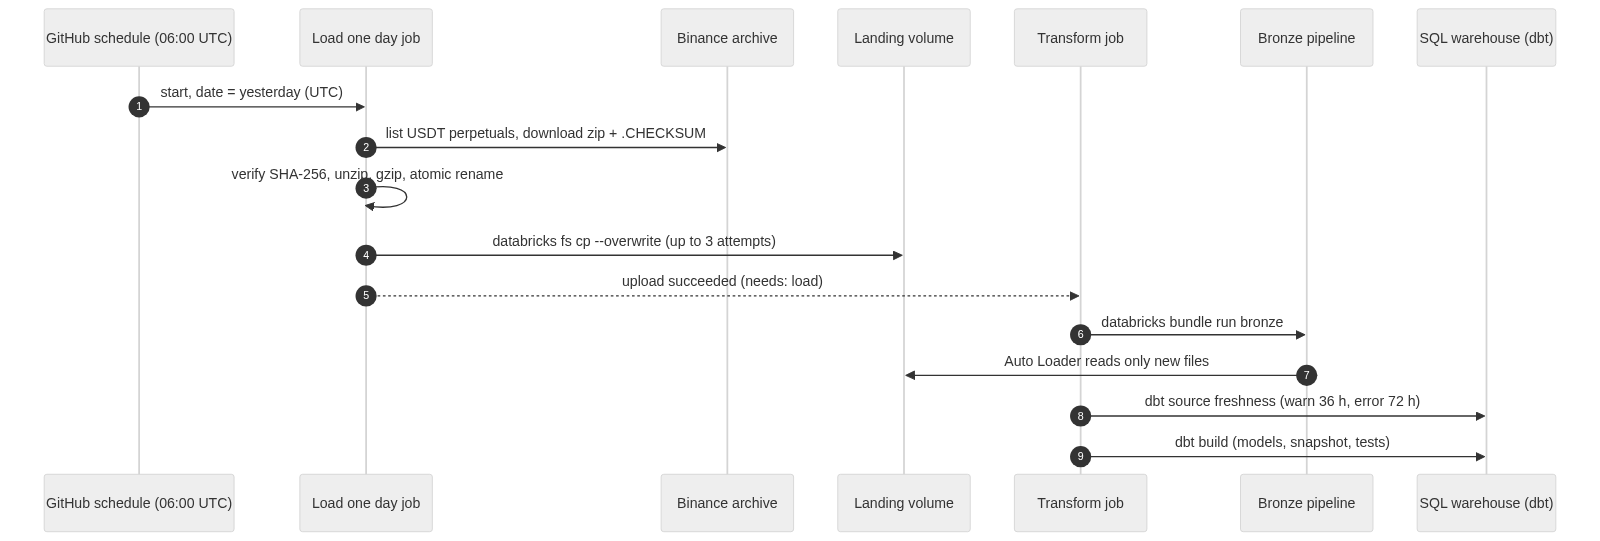
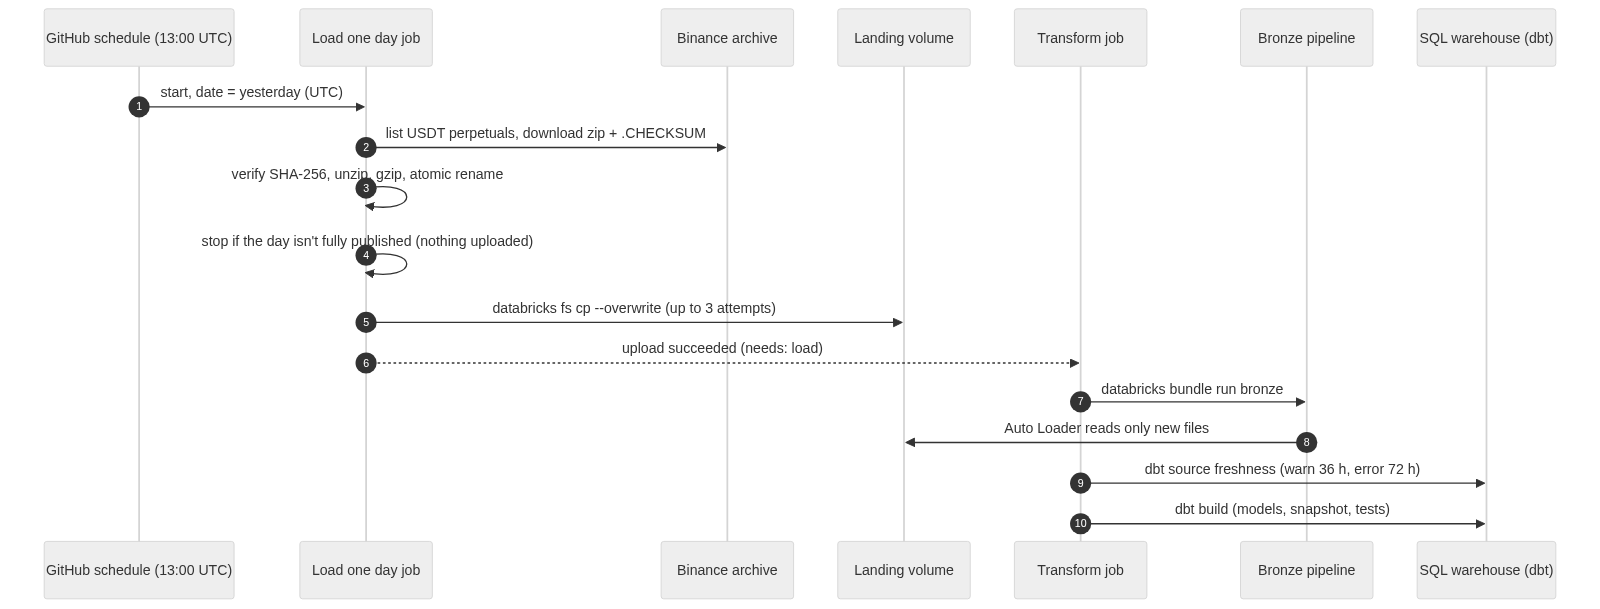
Lakehouse: daily load at 13:00 UTC; retry dropped downloads; refuse a half-published day (ADR-021)

diff --git a/lakehouse/ingest/download_binance.py b/lakehouse/ingest/download_binance.py
@@ -15,6 +15,8 @@ A file that is already saved is skipped, so running it twice is safe.
 A day or month Binance hasn't published, or a coin that wasn't trading then, is reported as missing.
 With --symbols ALL, the list of coins comes from Binance's archive itself: every USDT
 perpetual it has ever published (coins delisted long ago simply come back as missing).
+A daily run over every coin also checks that Binance has finished publishing the day, and fails
+if it hasn't, so a half-published day is never loaded.
 
 Standard library only: nothing to install.
 
@@ -27,6 +29,7 @@ import concurrent.futures
 import datetime as dt
 import gzip
 import hashlib
+import http.client
 import io
 import pathlib
 import re
@@ -61,8 +64,8 @@ LANDING = pathlib.Path(__file__).resolve().parent.parent / "data" / "landing"
 
 def fetch(url):
     """Return the file at `url` as bytes, or None if it doesn't exist (HTTP 404).
-    Network hiccups are retried twice before giving up."""
-    for attempt in range(1, 4):
+    Network hiccups are retried three times (after 5, 10 and 15 seconds) before giving up."""
+    for attempt in range(1, 5):
         try:
             request = urllib.request.Request(url, headers={"User-Agent": "medusa-lakehouse"})
             with urllib.request.urlopen(request, timeout=60) as response:
@@ -70,12 +73,16 @@ def fetch(url):
         except urllib.error.HTTPError as e:
             if e.code == 404:
                 return None
-            if attempt == 3:
+            if attempt == 4:
                 raise
-        except urllib.error.URLError:
-            if attempt == 3:
+        except (OSError, http.client.HTTPException):
+            # Covers failing to connect (URLError) and also the connection dropping in the
+            # middle of a download: "Connection reset by peer", a timeout, a cut-off file.
+            # Those happen inside response.read(), so they aren't URLErrors. Downloading the
+            # file again from the start is safe.
+            if attempt == 4:
                 raise
-        time.sleep(2 * attempt)
+        time.sleep(5 * attempt)
 
 
 def all_perpetuals(kind):
@@ -145,6 +152,27 @@ def download_one(dataset, symbol, period):
     return "saved"
 
 
+def not_published_yet(found, datasets, symbols, period):
+    """Signs that Binance is still publishing a day, for a daily run over every coin.
+
+    Binance publishes a day's metrics files first and its 1-minute candle files one to five
+    hours later, and not all at once. Loading in between would leave some coins out of that
+    day for good, because the next run only fetches its own day. Two signs:
+      - a dataset with no files at all for the day,
+      - a coin with a metrics file but no candle file. On complete days this never happens
+        (checked on 2026-10-14 to 2026-10-20), while the reverse is normal: about 120 coins
+        have candles but no metrics.
+    `found` holds (dataset, symbol, period) for every file Binance has published."""
+    have = {d: {s for s in symbols if (d, s, period) in found} for d in datasets}
+    problems = [f"{d} {period}: no files yet" for d in datasets if not have[d]]
+    if have.get("klines_1m") and have.get("metrics"):
+        waiting = sorted(have["metrics"] - have["klines_1m"])
+        if waiting:
+            problems.append(f"klines_1m {period}: {len(waiting)} coins have metrics but no candles yet "
+                            f"({', '.join(waiting[:5])}{', ...' if len(waiting) > 5 else ''})")
+    return problems
+
+
 def main():
     parser = argparse.ArgumentParser(description="Download Binance USD-M futures files.")
     parser.add_argument("--symbols", required=True, help="ALL, or comma-separated, e.g. BTCUSDT,ETHUSDT")
@@ -153,6 +181,8 @@ def main():
     parser.add_argument("--datasets", help="default: the daily datasets, or the monthly ones with --months")
     parser.add_argument("--workers", type=int, default=16, help="downloads at the same time (default: 16)")
     args = parser.parse_args()
+    # Print each line as it happens, so the log keeps messages and errors in order.
+    sys.stdout.reconfigure(line_buffering=True)
 
     if args.months and args.date:
         parser.error("use --date or --months, not both")
@@ -181,6 +211,7 @@ def main():
     # Downloads wait on the network, not the CPU, so running several at once is much faster.
     jobs = [(dataset, symbol, period) for dataset in datasets for symbol in symbols for period in periods]
     counts = {"saved": 0, "skipped": 0, "missing": 0, "failed": 0}
+    found = set()  # (dataset, symbol, period) of every file Binance has published
     with concurrent.futures.ThreadPoolExecutor(max_workers=args.workers) as pool:
         futures = {pool.submit(download_one, d, s, p): (d, s, p) for d, s, p in jobs}
         for future in concurrent.futures.as_completed(futures):
@@ -191,12 +222,24 @@ def main():
                 result = "failed"
                 print(f"FAILED   {dataset:<10} {symbol} {period}: {e}", file=sys.stderr)
             counts[result] += 1
+            if result in ("saved", "skipped"):
+                found.add((dataset, symbol, period))
             if result != "failed" and len(jobs) <= 40:  # a full run would print thousands of lines
                 print(f"{result:<8} {dataset:<10} {symbol} {period}")
 
     span = periods[0] if len(periods) == 1 else f"{periods[0]} to {periods[-1]}"
     print(f"\n{span}: " + ", ".join(f"{n} {name}" for name, n in counts.items()))
-    return 1 if counts["failed"] else 0
+
+    problems = []
+    if kind == "daily" and args.symbols.strip().upper() == "ALL":
+        for period in periods:
+            problems += not_published_yet(found, datasets, symbols, period)
+    for problem in problems:
+        print(f"NOT READY {problem}", file=sys.stderr)
+    if problems:
+        print("Binance hasn't finished publishing this day, so nothing is uploaded. "
+              "Run the load again later.", file=sys.stderr)
+    return 1 if counts["failed"] or problems else 0
 
 
 if __name__ == "__main__":

diff --git a/lakehouse/docs/operations.md b/lakehouse/docs/operations.md
@@ -8,7 +8,7 @@ How the platform runs day to day, and what to do when something goes wrong.
 
 | What | When | Where to look |
 |---|---|---|
-| Download + upload (`Lakehouse daily load`, job `load`) | 06:00 UTC (11:30 India time). GitHub may start it a few minutes late. | GitHub → **Actions** → Lakehouse daily load |
+| Download + upload (`Lakehouse daily load`, job `load`) | 13:00 UTC (18:30 India time), after Binance has published the previous day ([ADR-021](decisions.md#adr-021-load-a-day-only-after-binance-has-finished-publishing-it)). GitHub can start scheduled runs late, by minutes or even hours. | GitHub → **Actions** → Lakehouse daily load |
 | Bronze, freshness check, `dbt build` (job `transform`) | Right after a successful upload, in the same run | The same run's `transform` job; Databricks → **Jobs & Pipelines** → lakehouse-bronze for the pipeline |
 | Check the result | After the run | The last line of `dbt build` in the log; `market.gold.data_health` for the new day |
 
@@ -52,10 +52,17 @@ A complete day has about 872 coins × 1,440 rows. A data-health table will autom
 |---|---|---|
 | `default auth: cannot configure default credentials`, and the `env:` section shows `DATABRICKS_HOST:` with nothing after it | The secrets are missing or saved in the wrong place | Settings → Secrets and variables → **Actions** → **Secrets** tab → *Repository secrets* must list `DATABRICKS_HOST` and `DATABRICKS_TOKEN` |
 | `403` / invalid access token on upload | The GitHub token expired or was revoked | Create a new token, update the `DATABRICKS_TOKEN` secret (see below), re-run |
-| Download step: every file `missing` | Binance hasn't published the day yet | Re-run later with **Run workflow** |
+| Download step: `NOT READY ... no files yet` or `NOT READY ... coins have metrics but no candles yet` | Binance hasn't finished publishing the day. Nothing was uploaded. | Later the same day: open the run → **Re-run failed jobs**. The whole load runs again from the start. |
+| Download step: `FAILED ... Connection reset by peer` or a timeout | The network dropped 4 times in a row for one file (each file is tried 4 times) | **Re-run failed jobs** |
 | Download step: `FAILED ... checksum mismatch` | A file was damaged in transfer | Re-run; if it repeats, the file on Binance's side is broken: report and skip the day |
 | The workflow doesn't appear under Actions | The workflow file isn't in `.github/workflows/` at the repository root | Move it there (`git mv`) |
 | Scheduled runs stopped | GitHub pauses schedules in public repositories after 60 days without commits | Actions → the workflow → **Enable workflow** |
+
+## Incidents
+
+| Date | What happened | Cause | Fix |
+|---|---|---|---|
+| 2026-10-21 | The first scheduled daily load (for 2026-10-20) failed in the download step: `FAILED metrics ATHUSDT 2026-10-20: [Errno 104] Connection reset by peer` (1,527 saved, 280 missing, 1 failed). Re-run at 21:51 UTC: all 872 coins loaded and every test passed; no data was lost. | 1. The downloader retried a connection that failed to open, but not one that dropped mid-download. 2. GitHub started the 06:00 schedule at 11:19, before Binance had finished publishing: 88 coins' candle files appeared only at 11:55. Without the network error, the day would have loaded without those coins. | Mid-download errors are retried; the schedule moved to 13:00 UTC; the download step refuses a day that isn't fully published ([ADR-021](decisions.md#adr-021-load-a-day-only-after-binance-has-finished-publishing-it)). |
 
 ## Secrets and renewals
 

diff --git a/lakehouse/docs/decisions.md b/lakehouse/docs/decisions.md
@@ -28,6 +28,7 @@ entry replaces it and the old one is marked *Superseded*.
 | 018 | [A coin trades only if it has trades](#adr-018-a-coin-trades-only-if-it-has-trades) | Accepted |
 | 019 | [Hourly candles follow the exchange's definition](#adr-019-hourly-candles-follow-the-exchanges-definition) | Accepted |
 | 020 | [Long history from Binance's monthly hourly files](#adr-020-long-history-from-binances-monthly-hourly-files) | Accepted |
+| 021 | [Load a day only after Binance has finished publishing it](#adr-021-load-a-day-only-after-binance-has-finished-publishing-it) | Accepted; replaces the 06:00 UTC time in ADR-003 |
 
 ---
 
@@ -341,4 +342,31 @@ Long-horizon analysis reads hours; minute detail stays limited to the recent per
 before 2022 have no header row, so bronze reads every file without a header and silver drops the
 header lines. The archive stops at the last published month; the daily 1-minute load extends the
 series from there, so the history workflow doesn't need to run again.
+
+## ADR-021: Load a day only after Binance has finished publishing it
+
+**Status:** Accepted, 2026-10-22. Replaces the 06:00 UTC run time of ADR-003.
+
+**Context:** The first scheduled daily load (2026-10-21, for 2026-10-20) failed when one download
+lost its connection ("Connection reset by peer"). Looking into it showed a bigger problem. Binance
+publishes a day's metrics files around 06:40–07:40 UTC the next day and its 1-minute candles
+around 08:00–12:00 UTC (measured 14–20 October), all after the 06:00 schedule. GitHub had started
+that run late, at 11:19, when 88 coins' candle files were still missing; they appeared at 11:55.
+The downloader counts an unpublished file as *missing*, which is normal for delisted coins, so
+without the network error the run would have loaded the day without those 88 coins. The next
+run only fetches its own day, so they would never have been loaded.
+
+**Decision:**
+- The daily load runs at 13:00 UTC.
+- A daily run over every coin refuses a day that isn't fully published, and nothing is uploaded.
+  It counts as unpublished when a dataset has no files at all, or when a coin has a metrics file
+  but no candle file. That pattern was checked on 14–20 October and never occurs on a complete
+  day; the reverse (candles but no metrics, about 120 coins a day) is normal.
+- The downloader retries a connection that drops in the middle of a download, as well as one
+  that fails to open: 4 tries, 5, 10 and 15 seconds apart.
+
+**Consequences:** Yesterday's data arrives in the afternoon (18:30 India time), not the morning.
+A late day fails loudly, with a failure email, instead of loading part of the day; re-running the
+failed job later loads it. Binance's publishing time isn't guaranteed, so this can still happen
+occasionally.
 

diff --git a/lakehouse/README.md b/lakehouse/README.md
@@ -48,7 +48,7 @@ flowchart LR
 | [3. Setup job](docs/steps/03-setup-job.md) | Asset Bundle that deploys and runs the DDL | Done |
 | [4. Downloader](docs/steps/04-downloader.md) | Download + checksum check for one coin | Done |
 | [5. Every coin + upload](docs/steps/05-every-coin-and-upload.md) | All USDT perpetuals, uploaded to the landing volume | Done |
-| [6. Daily automation](docs/steps/06-daily-github-action.md) | GitHub Actions load at 06:00 UTC | Done |
+| [6. Daily automation](docs/steps/06-daily-github-action.md) | Daily load with GitHub Actions (now 13:00 UTC, [ADR-021](docs/decisions.md#adr-021-load-a-day-only-after-binance-has-finished-publishing-it)) | Done |
 | [7. Bronze layer](docs/steps/07-bronze-pipeline.md) | First tables, loaded with Auto Loader | Done |
 | [8. dbt setup](docs/steps/08-dbt-setup.md) | dbt installed in a venv and connected to the SQL warehouse | Done |
 | [9. Silver candles](docs/steps/09-silver-candles.md) | Typed, incremental `fct_candle_1m` with tests and source freshness | Done |
@@ -81,7 +81,7 @@ lakehouse/
 ```
 
 The workflows live at the repository root in [`.github/workflows/`](../.github/workflows/), because
-that is the only place GitHub looks for them: `lakehouse-daily.yml` (every day at 06:00 UTC),
+that is the only place GitHub looks for them: `lakehouse-daily.yml` (every day at 13:00 UTC),
 `lakehouse-backfill.yml` (past days), `lakehouse-history.yml` (Binance's monthly hourly files, one
 year per job), and the two they share, `lakehouse-load-day.yml` (download, check, upload) and
 `lakehouse-transform.yml` (bronze, freshness, dbt build).

diff --git a/lakehouse/docs/architecture.md b/lakehouse/docs/architecture.md
@@ -12,7 +12,7 @@ dashboards analyse: yesterday on its own, and yesterday against the past.
 
 ```mermaid
 flowchart TB
-  subgraph GH["GitHub Actions · daily 06:00 UTC"]
+  subgraph GH["GitHub Actions · daily 13:00 UTC"]
     D1["download_binance.py<br>list coins · download · SHA-256 check · unzip · gzip"]
     D2["databricks fs cp<br>upload to the landing volume"]
     D1 --> D2
@@ -59,8 +59,9 @@ SQL Server.
 
 | Time | What happens |
 |---|---|
-| ~00:00–05:00 | Binance publishes the previous day's files |
-| 06:00 | GitHub Actions downloads every coin's files (~1 minute), checks them and uploads them (~2.5 minutes in total) |
+| ~06:40–07:40 | Binance publishes the previous day's metrics files |
+| ~08:00–12:00 | Binance publishes the previous day's 1-minute candle files (measured 14–20 October 2026) |
+| 13:00 | GitHub Actions downloads every coin's files (~1 minute), checks they are all published and match their checksums, and uploads them (~2.5 minutes in total); a day that isn't fully published stops here ([ADR-021](decisions.md#adr-021-load-a-day-only-after-binance-has-finished-publishing-it)) |
 | Right after | The same run's `transform` job: bronze pipeline, `dbt source freshness`, `dbt build` (silver and gold, with tests) |
 
 ## Volumes of data
